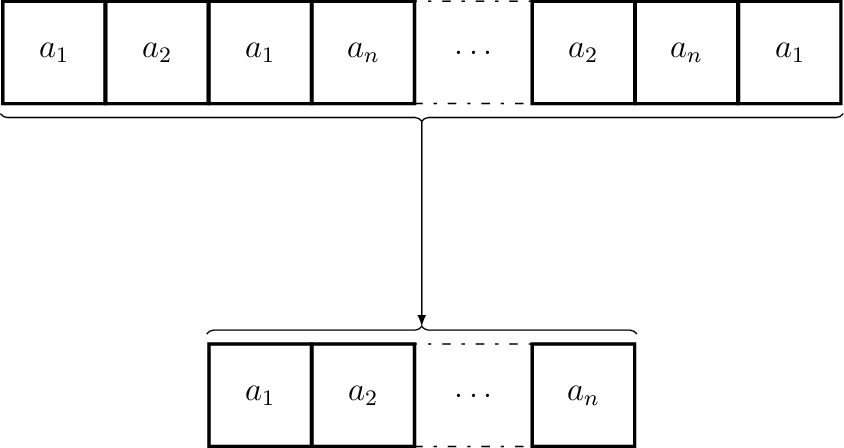
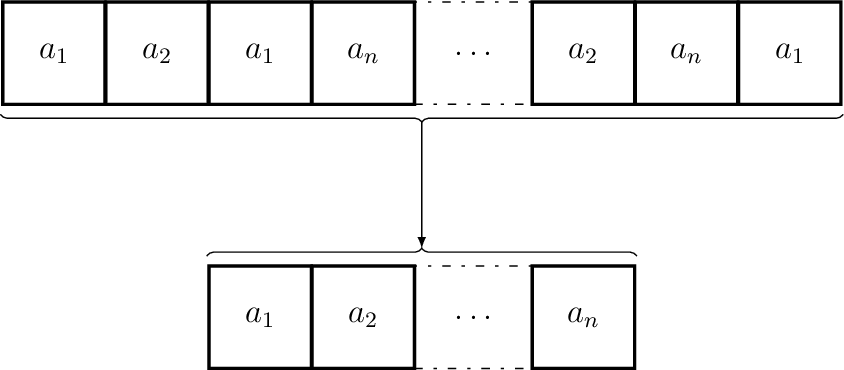
big restyling

diff --git a/src/images/fold.tex b/src/images/fold.tex
@@ -19,17 +19,17 @@
 
 \begin{scope}
   \tikzstyle{every path}=[arrow]
-  \draw [white border, out=270, in=90] (z.south) to (f1.110);
+  \draw [white border, out=270, in=90] (z.south) to (f1.100);
   \draw [white border, out=270, in=90] (a2.south) to (f1.45);
 
-  \draw [white border, out=270, in=90] (an.south) to (f2.45);
-  \draw [white border, out=0, in=90] (f1.east) to (f2.120);
+  \draw [white border, out=0, in=90] (f1.east) to (f2.100);
+  \draw [white border, out=270, in=90] (an.south) to (f2.40);
 
-  \draw [white border, out=270, in=90] (a1.south) to (f3.45);
-  \draw [white border, out=180, in=90] (f2.west) to (f3.120);
+  \draw [white border, out=180, in=90] (f2.west) to (f3.100);
+  \draw [white border, out=270, in=90] (a1.south) to (f3.40);
 
-  \draw [white border, out=270, in=90] (ai.south) to (fn.30);
-  \draw [white border, out=0, in=90] (f3.east) [middotted] to (fn.120);
+  \draw [white border, out=0, in=90] (f3.east) [middotted] to (fn.100);
+  \draw [white border, out=270, in=90] (ai.south) to (fn.25);
 
   \draw (fn.south) -- (B.north);
 \end{scope}

diff --git a/src/images/distinct.tex b/src/images/distinct.tex
@@ -1,21 +1,21 @@
 \input{_header.tex}
 
 \matrix (A) [collection, name prefix=a] {
-  \node (1)   {$a_1$}; &
-  \node (2)   {$a_2$}; &
-  \node (2)   {$a_1$}; &
-  \node (2)   {$a_n$}; &
-  \ellipsis            &
-  \node (n-1) {$a_2$}; &
-  \node (n-1) {$a_n$}; &
-  \node (n)   {$a_1$}; \\
+  \node {$a_1$}; &
+  \node {$a_2$}; &
+  \node {$a_1$}; &
+  \node {$a_n$}; &
+  \ellipsis      &
+  \node {$a_2$}; &
+  \node {$a_n$}; &
+  \node {$a_1$}; \\
 };
 
-\matrix (B) [collection, below=3cm of A, name prefix=b] {
-  \node (1) {$a_1$}; &
-  \node (2) {$a_2$}; &
-  \ellipsis          &
-  \node (n) {$a_n$}; \\
+\matrix (B) [collection, below=2cm of A] {
+  \node {$a_1$}; &
+  \node {$a_2$}; &
+  \ellipsis      &
+  \node {$a_n$}; \\
 };
 
 \bracetobrace {A.south west}{A.south east}{B.north west}{B.north east}

diff --git a/src/images/endsWith.tex b/src/images/endsWith.tex
@@ -20,9 +20,9 @@
 \begin{scope}
   \tikzstyle{every path}=[Latex-Latex]
   \tikzstyle{every node}=[arrow label]
-  \draw (an-3) -- node (t1) {= \true} (bn-3);
-  \draw (an-2) -- node (t2) {= \true} (bn-2);
-  \draw (an-1) -- node (t3) {= \false} (bn-1);
+  \draw (an-3) -- node (t1) {=? \true} (bn-3);
+  \draw (an-2) -- node (t2) {=? \true} (bn-2);
+  \draw (an-1) -- node (t3) {=? \false} (bn-1);
 \end{scope}
 
 \node (B) [elem, right=3cm of t3] {\false};

diff --git a/src/images/aggregate.tex b/src/images/aggregate.tex
@@ -25,8 +25,8 @@
 
 \begin{scope}
   \tikzstyle{every path}=[arrow]
-  \draw [white border, out=270, in=90] (z.south) to (f1.70);
-  \draw [white border, out=270, in=90] (a1.south) to (f1.30);
+  \draw [white border, out=270, in=90] (z.south) to (f1.50);
+  \draw [white border, out=270, in=90] (a1.south) to (f1.25);
 
   \draw [white border, out=270, in=90] (ai.south) to (f3.70);
   \draw [white border, out=270, in=90] (ai+1.south) to (f3.25);

diff --git a/src/images/startsWith.tex b/src/images/startsWith.tex
@@ -19,9 +19,9 @@
 \begin{scope}
   \tikzstyle{every path}=[Latex-Latex]
   \tikzstyle{every node}=[arrow label]
-  \draw (a2) -- node (t1) {= \true} (b2);
-  \draw (a3) -- node (t2) {= \true} (b3);
-  \draw (a4) -- node (t3) {= \true} (b4);
+  \draw (a2) -- node (t1) {=? \true} (b2);
+  \draw (a3) -- node (t2) {=? \true} (b3);
+  \draw (a4) -- node (t3) {=? \true} (b4);
 \end{scope}
 
 \node (B) [elem, right=5cm of t3] {\true};
